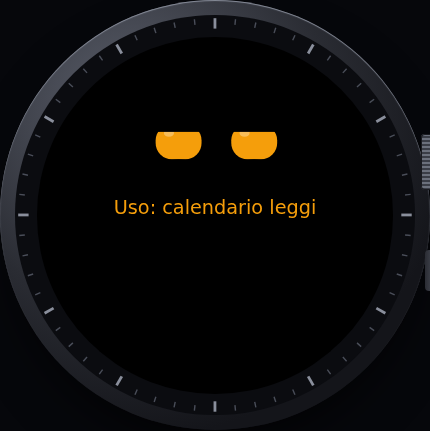
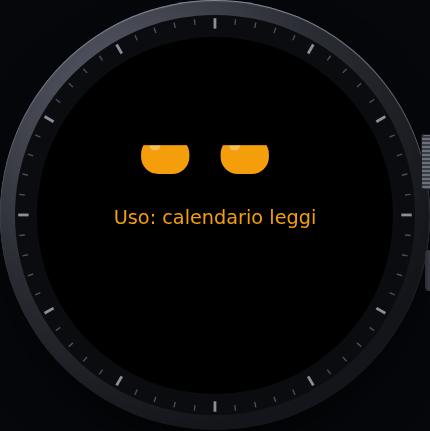
Prima schermata più pulita: Chiedi a Iris più piccolo, niente scritta a riposo, chat fissata con accanto il tasto tondo della cronologia (icona orologio con freccia)
Claude-Session: https://claude.ai/code/session_01Nwax4AJoh9j8WWGX8eKyWD

Changed region(s): [[0.2419, 0.4524, 0.7558, 0.5429], [0.514, 0.3016, 0.6651, 0.4223], [0.3023, 0.3016, 0.4837, 0.4223]]

diff --git a/design/prototipo.html b/design/prototipo.html
@@ -103,14 +103,15 @@ kbd{font:500 11px var(--mono);background:var(--raise);border:1px solid var(--lin
 .toast{position:absolute;bottom:22cqw;left:50%;transform:translateX(-50%);padding:2.4cqw 4.6cqw;border-radius:99cqw;background:#13202c;color:#9fd2ff;font:500 4.2cqw/1 var(--body);white-space:nowrap}
 @keyframes rise{from{transform:translateY(8cqw);opacity:0}}
 /* schermate della 0.1.2 (coordinate dell'app vera: 480 px = 100cqw) */
-.eyes.mid{top:27.5%;width:135cqw}
+.eyes.mid{top:31.25%;width:142cqw}
 .ttl{position:absolute;top:8.3cqw;left:22cqw;right:22cqw;height:7.5cqw;display:flex;align-items:center;justify-content:center;font:500 4.4cqw/1 var(--body);color:#7d849c;white-space:nowrap;overflow:hidden;text-overflow:ellipsis}
-.st{position:absolute;top:41.2cqw;left:12cqw;right:12cqw;height:13.3cqw;display:flex;align-items:center;justify-content:center;text-align:center;font:500 5.4cqw/1.25 var(--body);color:#8e95ad}
+.st{position:absolute;top:44.6cqw;left:12cqw;right:12cqw;height:12.1cqw;display:flex;align-items:center;justify-content:center;text-align:center;font:500 5.4cqw/1.25 var(--body);color:#8e95ad}
 .zb{position:absolute;border:0;border-radius:99cqw;cursor:pointer;font:600 4.6cqw/1.1 var(--body);background:#141824;color:#aab0c4;display:flex;align-items:center;justify-content:center;text-align:center;padding:0 2cqw;white-space:nowrap;overflow:hidden;text-overflow:ellipsis}
 .zb:active{filter:brightness(1.3)}
-.zb.big{left:20.8cqw;top:56.7cqw;width:58.3cqw;height:16.7cqw;background:var(--eye);color:#04121f;font-size:6.2cqw}
-.zb.l{left:17.5cqw;top:76.2cqw;width:31.7cqw;height:12.1cqw}
-.zb.r{left:50.8cqw;top:76.2cqw;width:31.7cqw;height:12.1cqw;background:#13202c;color:#9fd2ff;font-size:4.2cqw}
+.zb.big{left:25cqw;top:58.75cqw;width:50cqw;height:14.6cqw;background:var(--eye);color:#04121f;font-size:5.8cqw}
+.zb.fis{left:22.5cqw;top:76.7cqw;width:40.8cqw;height:12.1cqw;background:#13202c;color:#9fd2ff;font-size:4.4cqw}
+.zb.cro{left:65.4cqw;top:76.7cqw;width:12.1cqw;height:12.1cqw;padding:0;background:#141824;color:#aab0c4}
+.zb.cro svg{width:7cqw;height:7cqw}
 .kb{position:absolute;inset:0;background:#000;display:flex;flex-direction:column;align-items:center;justify-content:center;gap:4cqw}
 .kb .micb{width:24cqw;height:24cqw;border-radius:50%;background:#13263a;color:var(--eye);display:grid;place-items:center;animation:pulse 1.2s ease-in-out infinite}
 .kb .micb svg{width:11cqw;height:11cqw}
@@ -192,7 +193,7 @@ kbd{font:500 11px var(--mono);background:var(--raise);border:1px solid var(--lin
         <ol class="steps">
           <li><b>Chiedi a Iris</b> apre una chat nuova con la dettatura dell'orologio, poi ✓. Gli occhi mostrano cosa fa Iris; la risposta si legge con la corona, con gli occhi piccoli in alto.</li>
           <li><b>Continua</b> (in fondo alla risposta) riapre la dettatura nella stessa conversazione; <b>Nuova chat</b> ne apre una nuova.</li>
-          <li><b>Cronologia:</b> tocca una conversazione per continuarla, oppure <b>Fissa</b> per metterla nel tasto accanto (una sola fissata).</li>
+          <li><b>Cronologia</b> (il tasto tondo con l'orologio, accanto alla chat fissata): tocca una conversazione per continuarla, oppure <b>Fissa</b> per metterla nel tasto "Chat fissata" (una sola).</li>
           <li>Scegli qui sotto la prossima domanda da "dettare".</li>
         </ol>
         <div class="btns" id="qs"></div>
@@ -979,6 +980,7 @@ kbd{font:500 11px var(--mono);background:var(--raise);border:1px solid var(--lin
     vol: '<svg viewBox="0 0 24 24" fill="none" stroke="currentColor" stroke-width="2" stroke-linecap="round" stroke-linejoin="round"><path d="M4 9.5h3.5L12 6v12l-4.5-3.5H4z"/><path d="M15.5 9a4 4 0 0 1 0 6M18 6.5a7.5 7.5 0 0 1 0 11"/></svg>',
     mic: '<svg viewBox="0 0 24 24" fill="none" stroke="currentColor" stroke-width="2" stroke-linecap="round"><rect x="9" y="3.5" width="6" height="11" rx="3"/><path d="M5.5 11.5a6.5 6.5 0 0 0 13 0M12 18v2.5"/></svg>',
     list: '<svg viewBox="0 0 24 24" fill="none" stroke="currentColor" stroke-width="2" stroke-linecap="round"><path d="M5 7h14M5 12h14M5 17h9"/></svg>',
+    hist: '<svg viewBox="0 0 24 24" fill="none" stroke="currentColor" stroke-width="2.2" stroke-linecap="round" stroke-linejoin="round"><path d="M3.5 12a8.5 8.5 0 1 0 2.5-6"/><path d="M3 3.5v4.5h4.5"/><path d="M12 7.5V12l3 2"/></svg>',
   };
   // domande d'esempio (risposte inventate)
   const QS = [
@@ -1019,13 +1021,14 @@ kbd{font:500 11px var(--mono);background:var(--raise);border:1px solid var(--lin
     if (sideEyes && p !== "reply") sideEyes = null;
     if (p === "home") {
       showEyes(true, data && data.state || "idle");
-      ui.innerHTML = `<div class="st" id="st">${data && data.msg || "Tocca per chiedere"}</div>
-        <button class="zb big" id="ask">Chiedi a Iris</button><button class="zb l" id="hist">Cronologia</button>
-        <button class="zb r" id="pin">${esc(short(pinned ? pinned : "Fissata", 12))}</button>`;
+      ui.innerHTML = `<div class="st" id="st">${data && data.msg || ""}</div>
+        <button class="zb big" id="ask">Chiedi a Iris</button>
+        <button class="zb fis" id="pin">${esc(short(pinned ? pinned : "Chat fissata", 15))}</button>
+        <button class="zb cro" id="hist" aria-label="Cronologia">${I.hist}</button>`;
       if (data && data.color) $("st").style.color = data.color;
       btn("ask", () => { curTitle = "Nuova conversazione"; trace("p", "chat nuova (si crea su Hermes alla prima domanda)"); dettatura(); });
       btn("hist", () => go("sessions"));
-      btn("pin", () => { if (pinned) { curTitle = pinned; trace("p", `riprendo la chat fissata «${pinned}»`); dettatura(); } else { $("st").textContent = "Nessuna chat fissata: scegline una in Cronologia → Fissa"; } });
+      btn("pin", () => { if (pinned) { curTitle = pinned; trace("p", `riprendo la chat fissata «${pinned}»`); dettatura(); } else { $("st").textContent = "Nessuna chat fissata: scegline una dalla cronologia"; later(3500, () => $("st") && ($("st").textContent = "")); } });
     }
     if (p === "kb") {
       showEyes(false);

diff --git a/design/prototipo-src.html b/design/prototipo-src.html
@@ -103,14 +103,15 @@ kbd{font:500 11px var(--mono);background:var(--raise);border:1px solid var(--lin
 .toast{position:absolute;bottom:22cqw;left:50%;transform:translateX(-50%);padding:2.4cqw 4.6cqw;border-radius:99cqw;background:#13202c;color:#9fd2ff;font:500 4.2cqw/1 var(--body);white-space:nowrap}
 @keyframes rise{from{transform:translateY(8cqw);opacity:0}}
 /* schermate della 0.1.2 (coordinate dell'app vera: 480 px = 100cqw) */
-.eyes.mid{top:27.5%;width:135cqw}
+.eyes.mid{top:31.25%;width:142cqw}
 .ttl{position:absolute;top:8.3cqw;left:22cqw;right:22cqw;height:7.5cqw;display:flex;align-items:center;justify-content:center;font:500 4.4cqw/1 var(--body);color:#7d849c;white-space:nowrap;overflow:hidden;text-overflow:ellipsis}
-.st{position:absolute;top:41.2cqw;left:12cqw;right:12cqw;height:13.3cqw;display:flex;align-items:center;justify-content:center;text-align:center;font:500 5.4cqw/1.25 var(--body);color:#8e95ad}
+.st{position:absolute;top:44.6cqw;left:12cqw;right:12cqw;height:12.1cqw;display:flex;align-items:center;justify-content:center;text-align:center;font:500 5.4cqw/1.25 var(--body);color:#8e95ad}
 .zb{position:absolute;border:0;border-radius:99cqw;cursor:pointer;font:600 4.6cqw/1.1 var(--body);background:#141824;color:#aab0c4;display:flex;align-items:center;justify-content:center;text-align:center;padding:0 2cqw;white-space:nowrap;overflow:hidden;text-overflow:ellipsis}
 .zb:active{filter:brightness(1.3)}
-.zb.big{left:20.8cqw;top:56.7cqw;width:58.3cqw;height:16.7cqw;background:var(--eye);color:#04121f;font-size:6.2cqw}
-.zb.l{left:17.5cqw;top:76.2cqw;width:31.7cqw;height:12.1cqw}
-.zb.r{left:50.8cqw;top:76.2cqw;width:31.7cqw;height:12.1cqw;background:#13202c;color:#9fd2ff;font-size:4.2cqw}
+.zb.big{left:25cqw;top:58.75cqw;width:50cqw;height:14.6cqw;background:var(--eye);color:#04121f;font-size:5.8cqw}
+.zb.fis{left:22.5cqw;top:76.7cqw;width:40.8cqw;height:12.1cqw;background:#13202c;color:#9fd2ff;font-size:4.4cqw}
+.zb.cro{left:65.4cqw;top:76.7cqw;width:12.1cqw;height:12.1cqw;padding:0;background:#141824;color:#aab0c4}
+.zb.cro svg{width:7cqw;height:7cqw}
 .kb{position:absolute;inset:0;background:#000;display:flex;flex-direction:column;align-items:center;justify-content:center;gap:4cqw}
 .kb .micb{width:24cqw;height:24cqw;border-radius:50%;background:#13263a;color:var(--eye);display:grid;place-items:center;animation:pulse 1.2s ease-in-out infinite}
 .kb .micb svg{width:11cqw;height:11cqw}
@@ -192,7 +193,7 @@ kbd{font:500 11px var(--mono);background:var(--raise);border:1px solid var(--lin
         <ol class="steps">
           <li><b>Chiedi a Iris</b> apre una chat nuova con la dettatura dell'orologio, poi ✓. Gli occhi mostrano cosa fa Iris; la risposta si legge con la corona, con gli occhi piccoli in alto.</li>
           <li><b>Continua</b> (in fondo alla risposta) riapre la dettatura nella stessa conversazione; <b>Nuova chat</b> ne apre una nuova.</li>
-          <li><b>Cronologia:</b> tocca una conversazione per continuarla, oppure <b>Fissa</b> per metterla nel tasto accanto (una sola fissata).</li>
+          <li><b>Cronologia</b> (il tasto tondo con l'orologio, accanto alla chat fissata): tocca una conversazione per continuarla, oppure <b>Fissa</b> per metterla nel tasto "Chat fissata" (una sola).</li>
           <li>Scegli qui sotto la prossima domanda da "dettare".</li>
         </ol>
         <div class="btns" id="qs"></div>
@@ -230,6 +231,7 @@ kbd{font:500 11px var(--mono);background:var(--raise);border:1px solid var(--lin
     vol: '<svg viewBox="0 0 24 24" fill="none" stroke="currentColor" stroke-width="2" stroke-linecap="round" stroke-linejoin="round"><path d="M4 9.5h3.5L12 6v12l-4.5-3.5H4z"/><path d="M15.5 9a4 4 0 0 1 0 6M18 6.5a7.5 7.5 0 0 1 0 11"/></svg>',
     mic: '<svg viewBox="0 0 24 24" fill="none" stroke="currentColor" stroke-width="2" stroke-linecap="round"><rect x="9" y="3.5" width="6" height="11" rx="3"/><path d="M5.5 11.5a6.5 6.5 0 0 0 13 0M12 18v2.5"/></svg>',
     list: '<svg viewBox="0 0 24 24" fill="none" stroke="currentColor" stroke-width="2" stroke-linecap="round"><path d="M5 7h14M5 12h14M5 17h9"/></svg>',
+    hist: '<svg viewBox="0 0 24 24" fill="none" stroke="currentColor" stroke-width="2.2" stroke-linecap="round" stroke-linejoin="round"><path d="M3.5 12a8.5 8.5 0 1 0 2.5-6"/><path d="M3 3.5v4.5h4.5"/><path d="M12 7.5V12l3 2"/></svg>',
   };
   // domande d'esempio (risposte inventate)
   const QS = [
@@ -270,13 +272,14 @@ kbd{font:500 11px var(--mono);background:var(--raise);border:1px solid var(--lin
     if (sideEyes && p !== "reply") sideEyes = null;
     if (p === "home") {
       showEyes(true, data && data.state || "idle");
-      ui.innerHTML = `<div class="st" id="st">${data && data.msg || "Tocca per chiedere"}</div>
-        <button class="zb big" id="ask">Chiedi a Iris</button><button class="zb l" id="hist">Cronologia</button>
-        <button class="zb r" id="pin">${esc(short(pinned ? pinned : "Fissata", 12))}</button>`;
+      ui.innerHTML = `<div class="st" id="st">${data && data.msg || ""}</div>
+        <button class="zb big" id="ask">Chiedi a Iris</button>
+        <button class="zb fis" id="pin">${esc(short(pinned ? pinned : "Chat fissata", 15))}</button>
+        <button class="zb cro" id="hist" aria-label="Cronologia">${I.hist}</button>`;
       if (data && data.color) $("st").style.color = data.color;
       btn("ask", () => { curTitle = "Nuova conversazione"; trace("p", "chat nuova (si crea su Hermes alla prima domanda)"); dettatura(); });
       btn("hist", () => go("sessions"));
-      btn("pin", () => { if (pinned) { curTitle = pinned; trace("p", `riprendo la chat fissata «${pinned}»`); dettatura(); } else { $("st").textContent = "Nessuna chat fissata: scegline una in Cronologia → Fissa"; } });
+      btn("pin", () => { if (pinned) { curTitle = pinned; trace("p", `riprendo la chat fissata «${pinned}»`); dettatura(); } else { $("st").textContent = "Nessuna chat fissata: scegline una dalla cronologia"; later(3500, () => $("st") && ($("st").textContent = "")); } });
     }
     if (p === "kb") {
       showEyes(false);

diff --git a/page/index.page.js b/page/index.page.js
@@ -1,7 +1,8 @@
-// Pagina principale: gli occhi, cosa sta facendo Iris e tre tasti:
-//   Chiedi a Iris  → chat nuova, con la tastiera di sistema (dettatura o lettere)
-//   Cronologia     → le ultime conversazioni, per continuarne una
-//   chat fissata   → la conversazione fissata dalla cronologia, per riprenderla al volo
+// Pagina principale: gli occhi e, sotto, tre tasti:
+//   Chiedi a Iris        → chat nuova, con la tastiera di sistema (dettatura o lettere)
+//   chat fissata         → la conversazione fissata dalla cronologia, per riprenderla al volo
+//   tondo a destra       → la cronologia delle conversazioni (icona orologio con freccia)
+// La riga di testo sotto gli occhi compare solo mentre Iris lavora (pensa, strumento) o per un errore.
 // Per continuare la chat appena fatta c'è "Continua" in fondo alla risposta.
 import * as hmUI from '@zos/ui'
 import { px } from '@zos/utils'
@@ -25,26 +26,26 @@ Page(
 
     build() {
       setWakeUpRelaunch({ relaunch: true }) // a schermo riacceso si torna qui, non sul quadrante
-      this.state.occhi = creaOcchi({ cx: C, cy: px(132), scala: 0.9 })
+      this.state.occhi = creaOcchi({ cx: C, cy: px(150), scala: 0.95 })
       this.state.testo = hmUI.createWidget(hmUI.widget.TEXT, {
-        x: px(60), y: px(198), w: px(360), h: px(64),
-        text: 'Tocca per chiedere', text_size: px(26), color: 0x8e95ad,
+        x: px(60), y: px(214), w: px(360), h: px(58),
+        text: '', text_size: px(25), color: 0x8e95ad,
         align_h: hmUI.align.CENTER_H, align_v: hmUI.align.CENTER_V, text_style: hmUI.text_style.WRAP,
       })
       hmUI.createWidget(hmUI.widget.BUTTON, {
-        x: px(100), y: px(272), w: px(280), h: px(80), radius: px(40),
-        normal_color: 0x7cc4ff, press_color: 0x5aa6e6, color: 0x04121f, text_size: px(30),
+        x: px(120), y: px(282), w: px(240), h: px(70), radius: px(35),
+        normal_color: 0x7cc4ff, press_color: 0x5aa6e6, color: 0x04121f, text_size: px(28),
         text: 'Chiedi a Iris', click_func: () => this.nuovaChat(),
       })
-      hmUI.createWidget(hmUI.widget.BUTTON, {
-        x: px(84), y: px(366), w: px(152), h: px(58), radius: px(29),
-        normal_color: 0x141824, press_color: 0x1f2433, color: 0xaab0c4, text_size: px(22),
-        text: 'Cronologia', click_func: () => !this.state.busy && push({ url: 'page/sessioni.page' }),
-      })
       this.state.fissa = hmUI.createWidget(hmUI.widget.BUTTON, {
-        x: px(244), y: px(366), w: px(152), h: px(58), radius: px(29),
-        normal_color: 0x13202c, press_color: 0x1b3550, color: 0x9fd2ff, text_size: px(20),
-        text: 'Fissata', click_func: () => this.tastoFissato(),
+        x: px(108), y: px(368), w: px(196), h: px(58), radius: px(29),
+        normal_color: 0x13202c, press_color: 0x1b3550, color: 0x9fd2ff, text_size: px(21),
+        text: 'Chat fissata', click_func: () => this.tastoFissato(),
+      })
+      hmUI.createWidget(hmUI.widget.BUTTON, {
+        x: px(314), y: px(368), w: px(58), h: px(58),
+        normal_src: 'image/cronologia.png', press_src: 'image/cronologia-premuto.png',
+        click_func: () => !this.state.busy && push({ url: 'page/sessioni.page' }),
       })
       this.aggiornaTitolo()
       if (this.state.apri) setTimeout(() => this.tastiera(), 300)
@@ -63,8 +64,8 @@ Page(
         .then((c) => {
           if (!this.state.fissa) return
           this.state.pin = (c && c.pinned) || null
-          const t = this.state.pin ? this.state.pin.title : 'Fissata'
-          this.state.fissa.setProperty(hmUI.prop.MORE, { text: t.length > 12 ? t.slice(0, 11) + '…' : t })
+          const t = this.state.pin ? this.state.pin.title : 'Chat fissata'
+          this.state.fissa.setProperty(hmUI.prop.MORE, { text: t.length > 15 ? t.slice(0, 14) + '…' : t })
         })
         .catch(() => {})
     },
@@ -79,7 +80,7 @@ Page(
     tastoFissato() {
       if (this.state.busy) return
       const p = this.state.pin
-      if (!p) return this.scrivi('Nessuna chat fissata: scegline una in Cronologia → Fissa')
+      if (!p) { this.scrivi('Nessuna chat fissata: scegline una dalla cronologia'); setTimeout(() => !this.state.busy && this.scrivi(''), 3500); return }
       this.request({ method: 'use', params: { id: p.id } }).finally(() => this.tastiera())
     },
 
@@ -128,7 +129,7 @@ Page(
           dati().last = ultima
           setTimeout(() => {
             push({ url: 'page/risposta.page', params: JSON.stringify(ultima) })
-            this.state.occhi.stato('riposo'); this.scrivi('Tocca per chiedere')
+            this.state.occhi.stato('riposo'); this.scrivi('')
           }, 900)
         })
         .catch(() => { this.fine(); this.errore('Il telefono non risponde. L\'app Zepp è aperta e vicina?') })

diff --git a/README.md b/README.md
@@ -16,7 +16,7 @@ Progetto gemello di [Iris Notch](https://github.com/Mark9712Seto/IrisNotch), l'i
 | ![](docs/immagini/2-dettatura.png) | Premi **Chiedi a Iris** (chat nuova) e detti: *«Che impegni ho domani mattina?»*, poi ✓. |
 | ![](docs/immagini/3-strumento.png) | Gli occhi diventano arancioni e sotto compare lo strumento che Iris sta usando: *calendario*. |
 | ![](docs/immagini/4-risposta.png) | L'orologio vibra e mostra la risposta: *«Domani mattina hai due impegni: alle 9:30 il dentista, e alle 11 la call con Luca per il preventivo…»*. Si legge girando la corona; in fondo **Continua** e **Nuova chat**. |
-| ![](docs/immagini/5-cronologia.png) | **Cronologia**: le ultime conversazioni di Hermes, anche quelle iniziate su Telegram o sul PC. Toccane una per continuarla, oppure **Fissa** per averla nel tasto accanto a *Cronologia*. |
+| ![](docs/immagini/5-cronologia.png) | **Cronologia** (il tasto tondo con l'orologio): le ultime conversazioni di Hermes, anche quelle iniziate su Telegram o sul PC. Toccane una per continuarla, oppure **Fissa** per averla nel tasto *Chat fissata* della prima schermata. |
 
 Le risposte vere le scrive il tuo Hermes Agent, con i suoi strumenti (calendario, posta, casa…).
 
@@ -24,7 +24,7 @@ Le risposte vere le scrive il tuo Hermes Agent, con i suoi strumenti (calendario
 
 - Gli occhi di Iris, che sbattono le palpebre e cambiano colore mentre pensa.
 - **Chiedi a Iris:** detti la domanda con la tastiera vocale dell'orologio o la scrivi.
-- **Tre tasti:** *Chiedi a Iris* (chat nuova), *Cronologia* (anche le conversazioni di Telegram e dell'isola) e la *chat fissata*, per riprenderla al volo. In fondo a ogni risposta, *Continua* resta nella stessa conversazione.
+- **Tre tasti:** *Chiedi a Iris* (chat nuova), la *chat fissata* per riprenderla al volo e, accanto, il tasto tondo della *cronologia* (anche le conversazioni di Telegram e dell'isola). In fondo a ogni risposta, *Continua* resta nella stessa conversazione.
 - **Occhi animati** che seguono il lavoro di Iris: pensa, usa uno strumento (col nome), risponde, errore.
 - Lo schermo resta acceso finché arriva la risposta, che si legge scorrendo con la corona.
 - **Prova collegamento** dall'orologio e dalle impostazioni nell'app Zepp, con errori spiegati (token Cloudflare, chiave di Hermes, Hermes da aggiornare).

diff --git a/docs/installazione.md b/docs/installazione.md
@@ -52,8 +52,8 @@ Apri **Iris Dial** e premi **Chiedi a Iris**: detta (col microfono della tastier
 | Sulla prima schermata | |
 |---|---|
 | **Chiedi a Iris** | apre una chat nuova e la tastiera (dettatura o lettere) |
-| **Cronologia** | le ultime conversazioni di Hermes (anche di Telegram e dell'isola): toccandone una si continua lì; **Fissa** la mette nel tasto accanto |
-| tasto **fissata** | la conversazione fissata (una sola), per riprenderla al volo |
+| **Chat fissata** | la conversazione fissata (una sola), per riprenderla al volo |
+| tasto tondo con l'orologio | la **cronologia**: le ultime conversazioni di Hermes (anche di Telegram e dell'isola); toccandone una si continua lì, **Fissa** la mette nel tasto *Chat fissata* |
 
 Nella risposta: si scorre con la corona; in fondo **Continua** (stessa conversazione) e **Nuova chat**.
 
